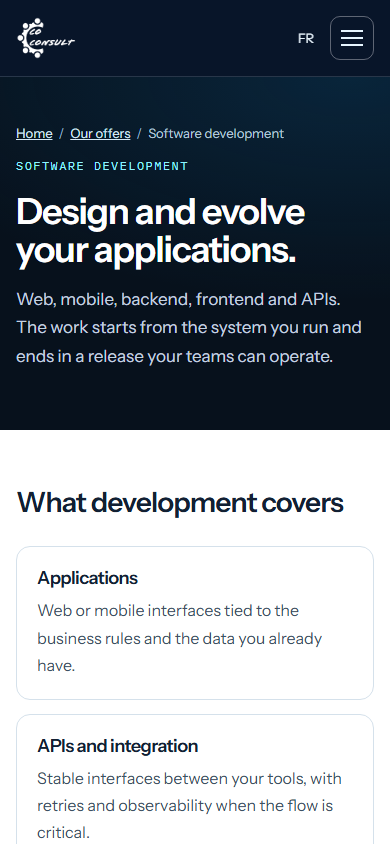
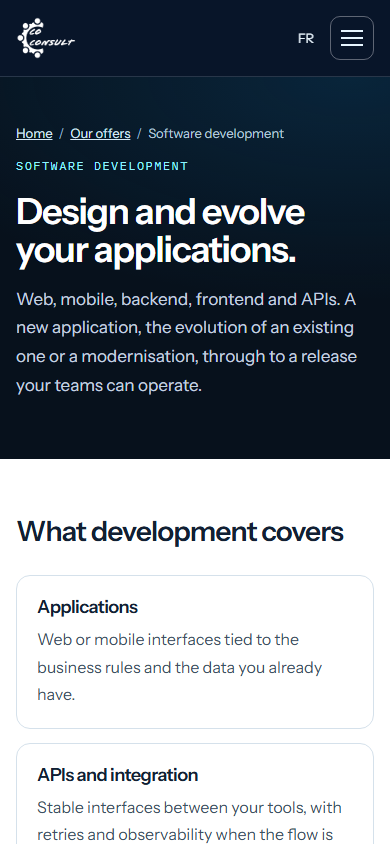
State three software cases and describe DataOps by the work it does.
Java, Spring and Angular now cover a new application, an existing one and a staged modernisation. DataOps stays distinct from generative AI without a sentence about a platform or a certification.

diff --git a/src/content/fr.ts b/src/content/fr.ts
@@ -497,19 +497,17 @@ export const pages: Record<RouteKey, PageContent> = {
         type: 'prose',
         title: 'Fondations DataOps',
         paragraphs: [
-          'DataOps n’est pas l’IA générative décrite au-dessus. L’IA branche un modèle sur un processus. Le DataOps, lorsqu’il est dans la mission, prépare les données que ce processus ou une application déjà en place doit consommer.',
-          'Coconsult ne publie pas de plateforme DataOps et n’annonce aucune certification d’outil. Les sources, les contrôles et ce qui reste opéré par vos équipes se cadrent avant de commencer.',
+          'DataOps et IA générative ne portent pas sur le même travail. L’IA branche un modèle sur un processus. Le DataOps fait circuler les données que ce processus et les applications concernées consomment.',
         ],
       },
       {
         type: 'list',
         title: 'Dans le système que vous exploitez déjà',
         items: [
-          'Pipelines de données : le chemin entre vos outils, avec une reprise quand un échange échoue',
-          'Qualité des données : champs attendus, rejets et doublons, définis avec vous',
-          'Intégration : raccordement aux applications et aux API que le projet doit alimenter',
-          'Automatisation des traitements répétitifs, là où la règle est déjà connue',
-          'Exploitation : journaux, échecs et reprise, pour les équipes qui font tourner le flux',
+          'Intégration et circulation des données, vers les applications et les API que le flux doit alimenter',
+          'Pipelines et automatisation des traitements dont la règle est connue',
+          'Qualité et fiabilité : champs attendus, rejets et doublons, définis avec vous',
+          'Supervision et reprise : journaux, échecs visibles et redémarrage du traitement',
         ],
       },
       {
@@ -748,11 +746,11 @@ export const pages: Record<RouteKey, PageContent> = {
     key: 'software',
     metaTitle: 'Développement sur mesure Java et Angular | Coconsult',
     description:
-      'Applications web, API et logiciels métier. Java, Spring et Angular lorsque le produit en place s’y appuie, avec une équipe dédiée si le projet dure.',
+      'Applications sur mesure, évolution d’un existant ou modernisation progressive. Java, Spring et Angular, avec une équipe dédiée si le projet dure.',
     eyebrow: 'DÉVELOPPEMENT LOGICIEL',
     h1: 'Concevoir et faire évoluer vos applications.',
     intro:
-      'Web, mobile, backend, frontend et API. Le travail part du système en place et va jusqu’à une mise en production que vos équipes peuvent exploiter.',
+      'Web, mobile, backend, frontend et API. Une application neuve, l’évolution d’un existant ou une modernisation, jusqu’à une mise en production que vos équipes peuvent exploiter.',
     blocks: [
       {
         type: 'columns',
@@ -761,23 +759,23 @@ export const pages: Record<RouteKey, PageContent> = {
           { title: 'Applications', text: 'Interfaces web ou mobiles reliées aux règles métier et aux données dont vous disposez déjà.' },
           { title: 'API et intégration', text: 'Des contrats d’interface stables entre vos outils, avec reprises et observabilité lorsque le flux est critique.' },
           { title: 'Architecture', text: 'Un découpage lisible quand le produit grandit, sans refonte décorative.' },
-          { title: 'Java, Spring et Angular', text: 'Ces technologies sont reprises lorsque le produit existant s’y appuie. Angular n’est pas proposé pour remplacer un front qui ne l’utilise pas déjà.' },
+          { title: 'Java, Spring et Angular', text: 'Ces expertises couvrent une application neuve, l’évolution d’un existant et une modernisation menée par étapes.' },
         ],
       },
       {
         type: 'list',
-        title: 'Interventions concrètes',
+        title: 'Trois cas',
         items: [
-          'Faire évoluer une application web déjà en production',
-          'Relier un mobile ou un portail au backend existant',
-          'Stabiliser des API entre deux systèmes qui ne se parlent pas',
+          'Développement d’applications sur mesure, à partir des règles métier et des utilisateurs',
+          'Évolution et maintenance d’applications déjà en production',
+          'Refonte ou modernisation progressive, par étapes',
         ],
       },
       {
         type: 'prose',
         title: 'Applications web, mobiles et logiciels métier',
         paragraphs: [
-          'Sur mesure veut dire partir du système déjà en place : règles, données et utilisateurs. Une application web ou mobile s’y relie, plutôt que de remplacer l’existant par principe.',
+          'Une application sur mesure part des règles, des données et des utilisateurs. Lorsqu’une application est déjà en production, le travail porte sur son évolution, sa maintenance, ou une modernisation menée par étapes.',
           'La livraison comprend une version exploitable, des environnements identifiés et un interlocuteur pendant la mise en route.',
           'Si le donneur d’ordre étudie un crédit d’impôt innovation, le cadre de l’agrément CII est décrit à part. Il ne s’applique pas à toute mission de développement.',
         ],

diff --git a/src/content/en.ts b/src/content/en.ts
@@ -448,19 +448,17 @@ export const pages: Record<RouteKey, PageContent> = {
         type: 'prose',
         title: 'DataOps foundations',
         paragraphs: [
-          'DataOps is not the generative AI described above. AI connects a model to a process. DataOps, when it is part of the assignment, prepares the data that process or an application already in place has to consume.',
-          'Coconsult does not publish a DataOps platform and does not claim a certification on any tool. The sources, the checks and what your teams keep operating are scoped before the work starts.',
+          'DataOps and generative AI are not the same work. AI connects a model to a process. DataOps moves the data that process and the applications involved need to consume.',
         ],
       },
       {
         type: 'list',
         title: 'Inside the system you already run',
         items: [
-          'Data pipelines: the path between your tools, with a retry when an exchange fails',
-          'Data quality: expected fields, rejects and duplicates, defined with you',
-          'Integration: a connection to the applications and APIs the project actually has to feed',
-          'Automation of repeatable processing, where the rule is already known',
-          'Operations: logs, failures and recovery, for the teams that keep the flow running',
+          'Data integration and circulation, towards the applications and APIs the flow has to feed',
+          'Pipelines and automation of processing whose rule is known',
+          'Quality and reliability: expected fields, rejects and duplicates, defined with you',
+          'Supervision and recovery: logs, visible failures and a restart of the processing',
         ],
       },
       {
@@ -699,11 +697,11 @@ export const pages: Record<RouteKey, PageContent> = {
     key: 'software',
     metaTitle: 'Custom Java and Angular development | Coconsult',
     description:
-      'Web applications, APIs and business software. Java, Spring and Angular when the product already uses them, with a dedicated team when the work lasts.',
+      'Custom applications, evolution of an existing one, or progressive modernisation. Java, Spring and Angular, with a dedicated team when the work lasts.',
     eyebrow: 'SOFTWARE DEVELOPMENT',
     h1: 'Design and evolve your applications.',
     intro:
-      'Web, mobile, backend, frontend and APIs. The work starts from the system you run and ends in a release your teams can operate.',
+      'Web, mobile, backend, frontend and APIs. A new application, the evolution of an existing one or a modernisation, through to a release your teams can operate.',
     blocks: [
       {
         type: 'columns',
@@ -712,23 +710,23 @@ export const pages: Record<RouteKey, PageContent> = {
           { title: 'Applications', text: 'Web or mobile interfaces tied to the business rules and the data you already have.' },
           { title: 'APIs and integration', text: 'Stable interfaces between your tools, with retries and observability when the flow is critical.' },
           { title: 'Architecture', text: 'A readable structure as the product grows, without a decorative rewrite.' },
-          { title: 'Java, Spring and Angular', text: 'These stacks are taken up when the product already relies on them. Angular is not proposed as a replacement for a front end that is not already Angular.' },
+          { title: 'Java, Spring and Angular', text: 'These skills cover a new application, the evolution of an existing one and a modernisation carried out in stages.' },
         ],
       },
       {
         type: 'list',
-        title: 'Concrete work',
+        title: 'Three cases',
         items: [
-          'Evolve a web application already in production',
-          'Connect a mobile app or a portal to the backend you run',
-          'Steady the APIs between two systems that do not talk',
+          'Custom application development, from the business rules and the people who will use it',
+          'Evolution and maintenance of applications already in production',
+          'A rewrite or a progressive modernisation, carried out in stages',
         ],
       },
       {
         type: 'prose',
         title: 'Web, mobile and business software',
         paragraphs: [
-          'Custom means starting from the system already in place: rules, data and users. A web or mobile application connects to it, rather than replacing it on principle.',
+          'A custom application starts from the rules, the data and the users. When an application is already in production, the work is its evolution, its maintenance, or a modernisation carried out in stages.',
           'Delivery includes a release your team can operate, identified environments and a counterpart during the first weeks.',
           'If a client is looking at the French innovation tax credit, the CII agreement is described separately. It does not apply to every development assignment.',
         ],
